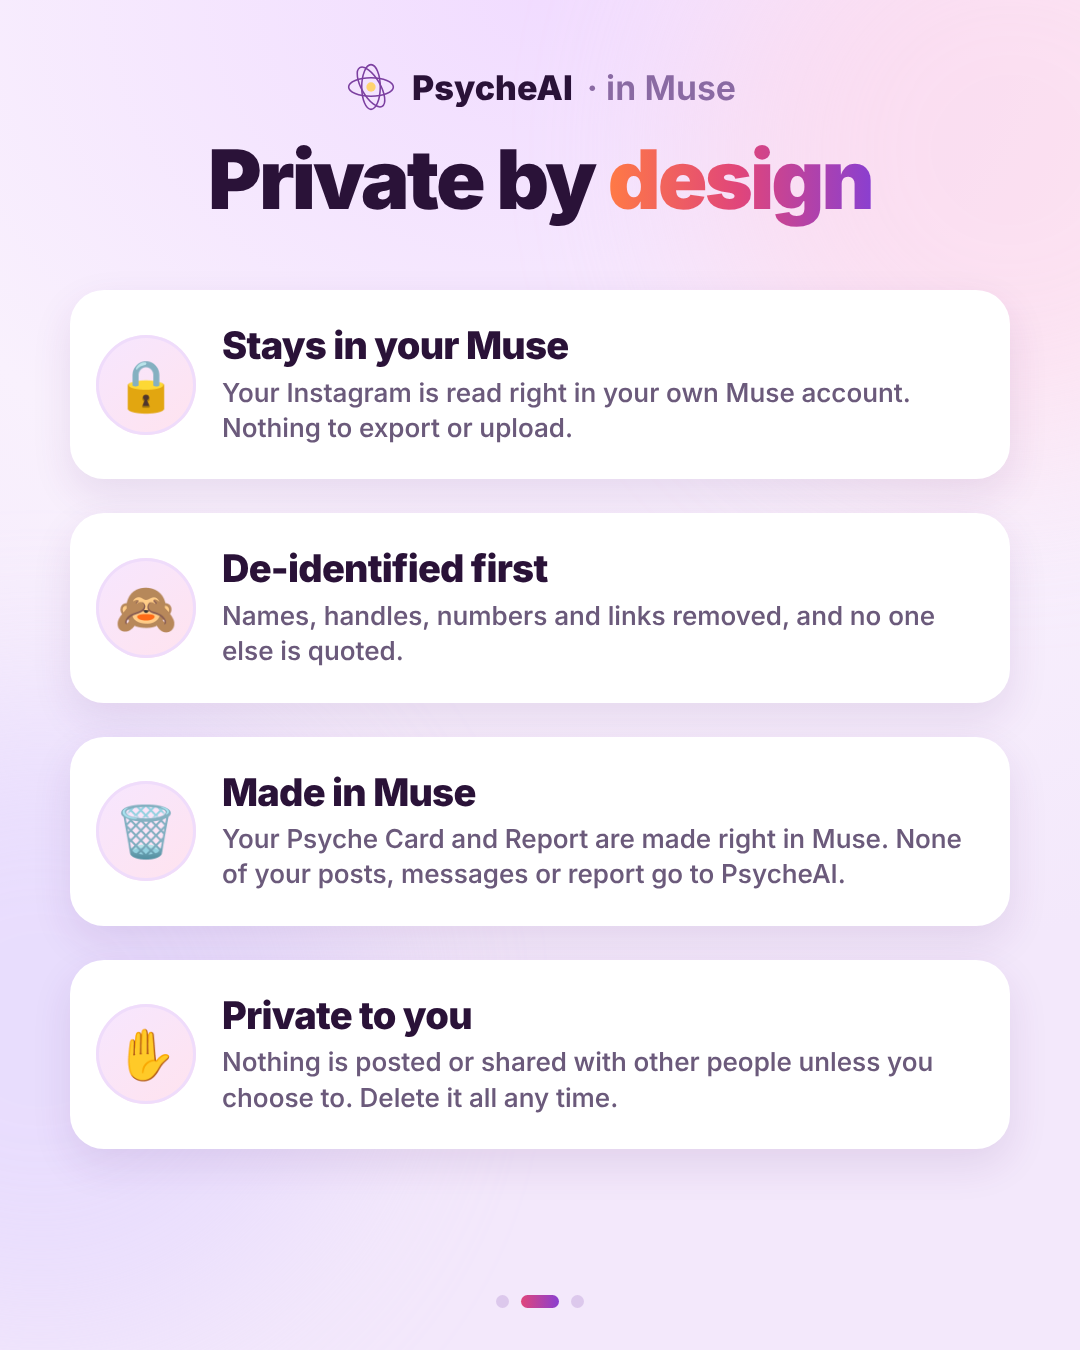
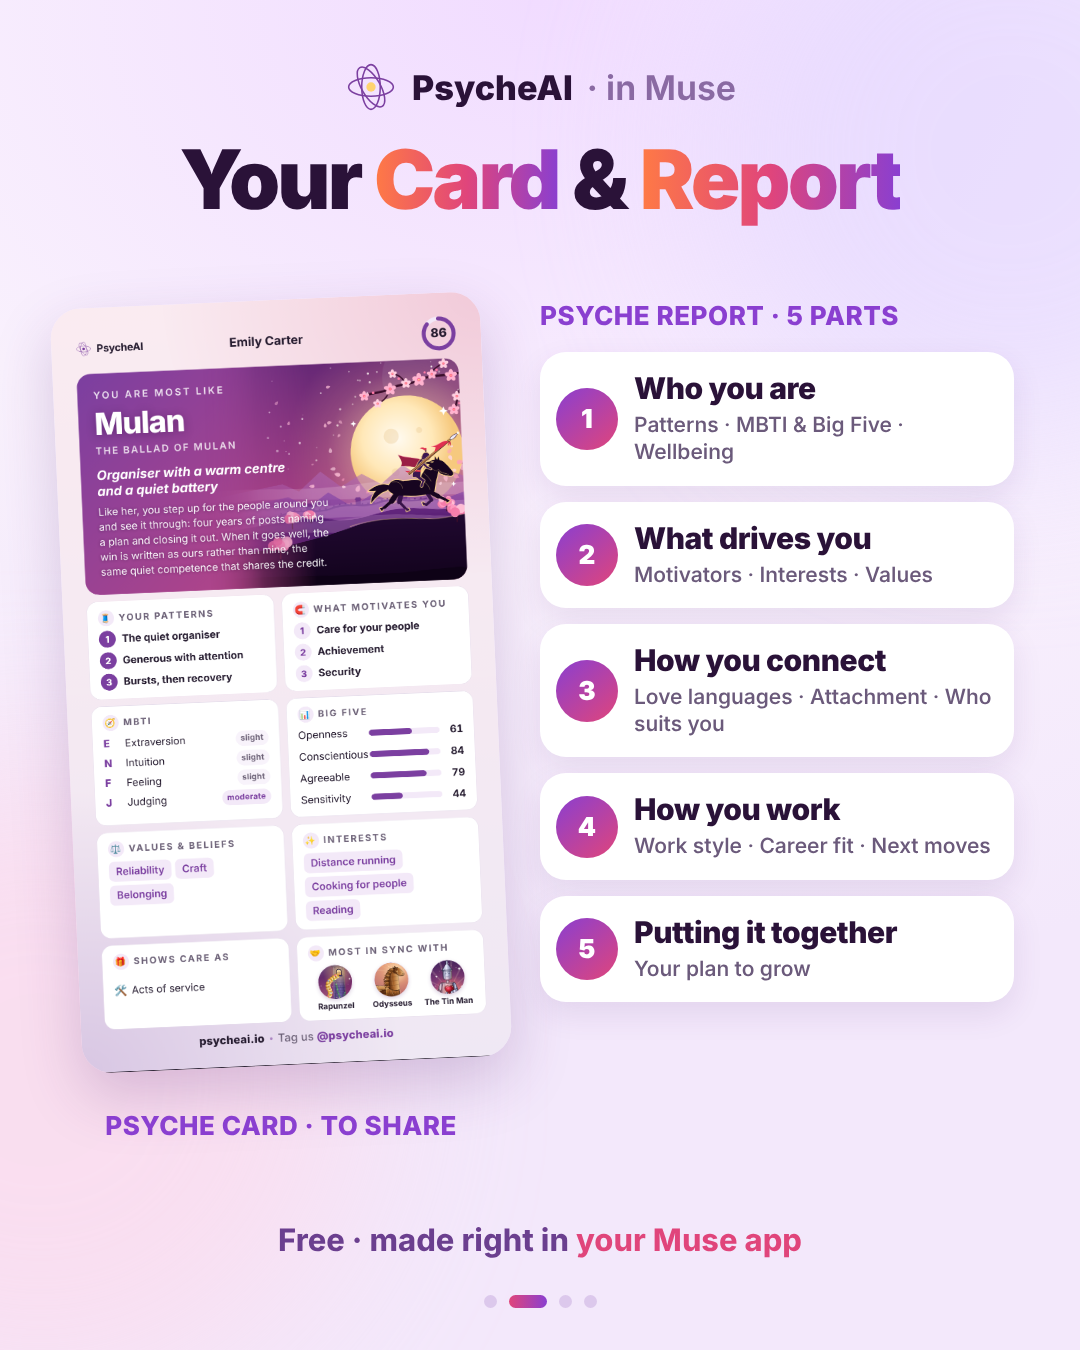
Muse carousel: a new slide 2, the Psyche Card beside the report's five parts
Claude-Session: https://claude.ai/code/session_01Fuzsy19nH9JnecaSEhjjzX

Changed region(s): [[0.0611, 0.2178, 0.9472, 0.8711], [0.1528, 0.0933, 0.8556, 0.1867], [0.2444, 0.9022, 0.7333, 0.9956]]

diff --git a/promo/carousel-muse.html b/promo/carousel-muse.html
@@ -1,9 +1,9 @@
 <!doctype html>
 <html><head><meta charset="utf-8">
 <style>
-/* The Instagram carousel for PsycheAI in Muse (three slides, 1080 x 1350, 4:5): node promo/carousel-muse.mjs
-   Slide 2's words are the Muse welcome's four privacy lines (psycheai-app lib/mcp.js GO_AHEAD), shortened
-   to fit; slide 3 is the full install prompt ("Install psycheai.io/muse and generate my Psyche", the one that brings the welcome most reliably), Muse's permission card ("Always allow this site", as /install says) and the welcome's messages choice.
+/* The Instagram carousel for PsycheAI in Muse (four slides, 1080 x 1350, 4:5): node promo/carousel-muse.mjs
+   Slide 2 is the Psyche Card beside the report's five parts (as the reel shows them); slide 3's words are the Muse welcome's four privacy lines (psycheai-app lib/mcp.js GO_AHEAD), shortened
+   to fit; slide 4 is the full install prompt ("Install psycheai.io/muse and generate my Psyche", the one that brings the welcome most reliably), Muse's permission card ("Always allow this site", as /install says) and the welcome's messages choice.
    Change them together. The mascot is promo/assets/muse-mascot.jpg, as in the Muse reel. */
 @font-face { font-family: Inter; src: url('assets/inter.woff2') format('woff2'); font-weight: 100 900; }
 * { box-sizing: border-box; margin: 0; padding: 0; }
@@ -64,6 +64,22 @@ h1 { position: absolute; left: 60px; right: 60px; text-align: center; font-size:
 .btns em { font-style: normal; padding: 11px 20px; border-radius: 16px; border: 2.5px dashed #b9b1c2; font-size: 24px; font-weight: 650; color: #3b2a48; background: #fff; }
 .foot { position: absolute; left: 0; right: 0; bottom: 92px; text-align: center; font-size: 31px; font-weight: 750; color: #6b3f8f; z-index: 3; }
 .foot em { font-style: normal; color: #e0457b; }
+
+/* 2: the Psyche Card beside the report's five parts (the reel's report scene, promo/stage.html) */
+#sCard h1 { top: 138px; }
+#sCard .pcard { position: absolute; left: 66px; top: 300px; width: 430px; border-radius: 30px; z-index: 2; transform: rotate(-2.5deg);
+  box-shadow: 0 24px 60px rgba(90, 40, 120, .22); }
+#sCard .cap { position: absolute; z-index: 3; font-size: 26px; font-weight: 800; color: #8a3fd0; letter-spacing: .02em; text-transform: uppercase; }
+#sCard .cap.c1 { left: 66px; width: 430px; text-align: center; top: 1110px; }
+#sCard .cap.c2 { left: 540px; right: 66px; top: 300px; }
+#sCard .parts { position: absolute; left: 540px; right: 66px; top: 352px; display: grid; gap: 16px; z-index: 2; }
+#sCard .part { display: grid; grid-template-columns: 62px 1fr; align-items: center; gap: 16px; padding: 20px 20px 20px 16px; border-radius: 26px;
+  background: #fff; box-shadow: 0 12px 30px rgba(90, 40, 120, .10); }
+#sCard .part i { font-style: normal; width: 62px; height: 62px; border-radius: 50%; display: grid; place-items: center; color: #fff; font-size: 26px; font-weight: 900;
+  background: linear-gradient(140deg, #8a3fd0, #e0457b); }
+#sCard .part b { display: block; font-size: 30px; font-weight: 850; letter-spacing: -0.015em; line-height: 1.1; }
+#sCard .part span { display: block; margin-top: 6px; font-size: 21px; font-weight: 550; line-height: 1.3; color: #6b5a7b; }
+#sCard .foot { bottom: 92px; }
 </style></head>
 <body>
 
@@ -78,7 +94,26 @@ h1 { position: absolute; left: 60px; right: 60px; text-align: center; font-size:
   <svg class="orbmark mark" viewBox="0 0 140 140" id="orbmark"></svg>
   <div class="free">Free</div>
   <div class="swipe">Swipe to start →</div>
-  <div class="dots"><i class="on"></i><i></i><i></i></div>
+  <div class="dots"><i class="on"></i><i></i><i></i><i></i></div>
+</section>
+
+<section class="slide" id="sCard">
+  <div class="blob" style="width:620px;height:620px;right:-240px;top:-160px;background:#e2d6ff;opacity:.6"></div>
+  <div class="blob" style="width:640px;height:640px;left:-280px;top:760px;background:#ffd6e7;opacity:.55"></div>
+  <div class="brand"><svg viewBox="0 0 140 140" class="mark"></svg>PsycheAI <span class="in">· in Muse</span></div>
+  <h1>Your <span class="grad">Card</span> &amp; <span class="grad">Report</span></h1>
+  <img class="pcard" src="assets/card.png" alt="">
+  <div class="cap c1">Psyche Card · to share</div>
+  <div class="cap c2">Psyche Report · 5 parts</div>
+  <div class="parts">
+    <div class="part"><i>1</i><div><b>Who you are</b><span>Patterns · MBTI &amp; Big Five · Wellbeing</span></div></div>
+    <div class="part"><i>2</i><div><b>What drives you</b><span>Motivators · Interests · Values</span></div></div>
+    <div class="part"><i>3</i><div><b>How you connect</b><span>Love languages · Attachment · Who suits you</span></div></div>
+    <div class="part"><i>4</i><div><b>How you work</b><span>Work style · Career fit · Next moves</span></div></div>
+    <div class="part"><i>5</i><div><b>Putting it together</b><span>Your plan to grow</span></div></div>
+  </div>
+  <div class="foot">Free · made right in <em>your Muse app</em></div>
+  <div class="dots"><i></i><i class="on"></i><i></i><i></i></div>
 </section>
 
 <section class="slide" id="s2">
@@ -92,7 +127,7 @@ h1 { position: absolute; left: 60px; right: 60px; text-align: center; font-size:
     <div class="card"><span class="icon">🗑</span><div><b>Made in Muse</b><span class="d">Your Psyche Card and Report are made right in Muse. None of your posts, messages or report go to PsycheAI.</span></div></div>
     <div class="card"><span class="icon">✋</span><div><b>Private to you</b><span class="d">Nothing is posted or shared with other people unless you choose to. Delete it all any time.</span></div></div>
   </div>
-  <div class="dots"><i></i><i class="on"></i><i></i></div>
+  <div class="dots"><i></i><i></i><i class="on"></i><i></i></div>
 </section>
 
 <section class="slide" id="s3">
@@ -107,7 +142,7 @@ h1 { position: absolute; left: 60px; right: 60px; text-align: center; font-size:
     <div class="card"><span class="num">4</span><div><b>Your Psyche in ~5 minutes</b><span class="d">Choose to include direct messages or just posts. You will get a Psyche card and report. Then sync with a friend.</span></div></div>
   </div>
   <div class="foot">Free · <em>psycheai.io/muse</em></div>
-  <div class="dots"><i></i><i></i><i class="on"></i></div>
+  <div class="dots"><i></i><i></i><i></i><i class="on"></i></div>
 </section>
 
 <script>

diff --git a/README.md b/README.md
@@ -2823,7 +2823,7 @@ rules for writing it live here, so the plugin and the site can't drift.
 
 **Introvert signals on E/I (3 Nov 2026).** Two reads of one digest put the same reader at Extraversion 56 and 76; looking for I as hard as for E found three signals the ledger had no row for: "Gosh cant stand all this small talk", "I went by myself… on a tour" and "Solo date 🥲", and a long debate taken to one friend with an essay rather than to a group. The rubric (`lib/mbtiScore.js`) now has them in general form: the strong `own-words` row includes what being with people costs or gives them (small talk, time alone after people / coming alive with new people); `solo-by-choice` (weak, I) is things done alone by choice and said so, never alone because nobody was free; `keeps-reaching-out` (weak, E) is plans started again and again across the years, or friends introduced to each other; `one-to-one` (weak) is where they take what matters, to one person at length (I) or to a group or audience (E), kept apart from loyalty (long, close threads), which still counts for neither letter. The Muse guide's E/I line names the first two. The free and one-call prompt reserves grew with the rubric (15,600 and 41,800). The next read of the same digest went to I 46 with solo-by-choice at medium, so it went down to weak, and the E side gained keeps-reaching-out.
 
-**The Muse carousel, simpler (4 Nov 2026).** Slide 1 says "Get a full personality study directly from your Muse app. No questions asked." with the front page's four words under it (MBTI · Attachment Style · Career Strengths · Blind Spots). Slide 2 drops its subtitle and says "Your Psyche Card and Report are made right in Muse", matching the welcome's order. Slide 3's last step ends "Then sync with a friend." (promo/carousel-muse.html).
+**The Muse carousel, simpler (4 Nov 2026).** Slide 1 says "Get a full personality study directly from your Muse app. No questions asked." with the front page's four words under it (MBTI · Attachment Style · Career Strengths · Blind Spots). Slide 2 drops its subtitle and says "Your Psyche Card and Report are made right in Muse", matching the welcome's order. Slide 3's last step ends "Then sync with a friend." A new slide 2, "Your Card & Report", shows the sample Psyche Card ("to share") beside the report's five parts as the reel names them (Who you are, What drives you, How you connect, How you work, Putting it together), so the carousel is now four slides: the mascot, the Card and Report, privacy, the steps (promo/carousel-muse.html, carousel-muse.mjs).
 
 **The full prompt on /muse (4 Nov 2026).** The copy box on /muse now holds "Install psycheai.io/muse and generate my Psyche", as the reel and the carousel show it: in Muse, that prompt brought the full welcome and the read, where a bare "Install psycheai.io/muse" only installed (psycheai-app README "The full prompt").
 
